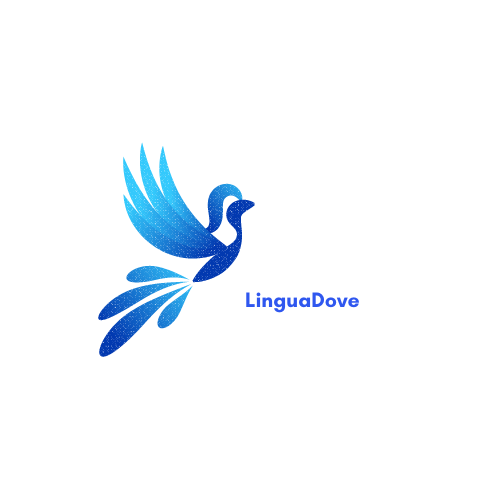
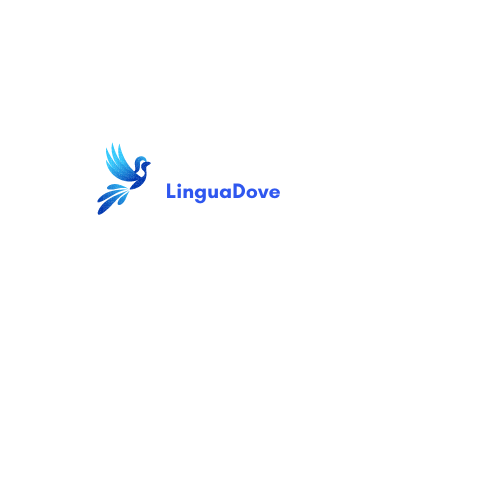
navbar almost done

Changed region(s): [[0.18, 0.27, 0.57, 0.72], [0.48, 0.57, 0.72, 0.63]]

diff --git a/src/pages/NavigationMenu/NavigationMenu.jsx b/src/pages/NavigationMenu/NavigationMenu.jsx
@@ -1,0 +1,45 @@
+import React from "react";
+import { Link } from "react-router-dom";
+import logo from '/dove.png'
+
+const NavigationMenu = () => {
+  return (
+    <div className="pt-[60px]">
+      <nav className="flex items-center justify-between p-4 bg-white text-[#192335] rounded-lg shadow-lg">
+        {/* First Part */}
+        <div className=" text-lg font-bold flex items-center">
+            <img src={logo} className="max-w-[50px] max-h-[50px]" alt="" />
+             <span className="text-gradient bg-gradient-to-r from-[#2f57ef] to-[#B260EC] text-transparent bg-clip-text">LinguaDove</span>
+        </div>
+
+        {/* Second Part */}
+        <div className="flex space-x-4 font-medium">
+          <Link to="/" className="hover:text-[#2f57ef]">
+            Home
+          </Link>
+          <Link to="/pages" className="hover:text-[#2f57ef]">
+            Pages
+          </Link>
+          <Link to="/dashboard" className="hover:text-[#2f57ef]">
+            Dashboard
+          </Link>
+          <Link to="/blogs" className="hover:text-[#2f57ef]">
+            Blogs
+          </Link>
+          <Link to="/courses" className="hover:text-[#2f57ef]">
+            Courses
+          </Link>
+        </div>
+
+        {/* Third Part */}
+        <div>
+          <button className="bg-gradient-to-r from-[#2f57ef] to-[#B260EC] hover:bg-red-700 text-white font-bold py-2 px-4 rounded">
+            Login
+          </button>
+        </div>
+      </nav>
+    </div>
+  );
+};
+
+export default NavigationMenu;

diff --git a/src/main.jsx b/src/main.jsx
@@ -6,9 +6,13 @@ import {
   RouterProvider
 } from "react-router-dom";
 import router from './routes/Routes.jsx';
-
+// bg-gradient-to-br from-gradient-color-1 to-gradient-color-2
 ReactDOM.createRoot(document.getElementById('root')).render(
   <React.StrictMode>
-      <RouterProvider router={router} />
+      <div className='bg-gradient-to-br from-[#FFFFFF] to-[#EFF1FF] h-[100vh]'>
+        <div className='max-w-screen-xl mx-auto'>
+          <RouterProvider router={router} />
+        </div>
+      </div>
   </React.StrictMode>,
 )

diff --git a/src/Layout/Main.jsx b/src/Layout/Main.jsx
@@ -1,10 +1,11 @@
 import React from 'react';
 import { Outlet } from 'react-router-dom';
+import NavigationMenu from '../pages/NavigationMenu/NavigationMenu';
 
 const Main = () => {
     return (
         <div>
-            <h2 className="text-xl">Main Page</h2>
+            <NavigationMenu></NavigationMenu>
             <Outlet></Outlet>
         </div>
     );

diff --git a/src/routes/Routes.jsx b/src/routes/Routes.jsx
@@ -10,7 +10,7 @@ import Main from "../Layout/Main";
       children: [
         {
             path: '/',
-            element: <div>Hi</div>
+            element: <div></div>
         }
       ]
     },
